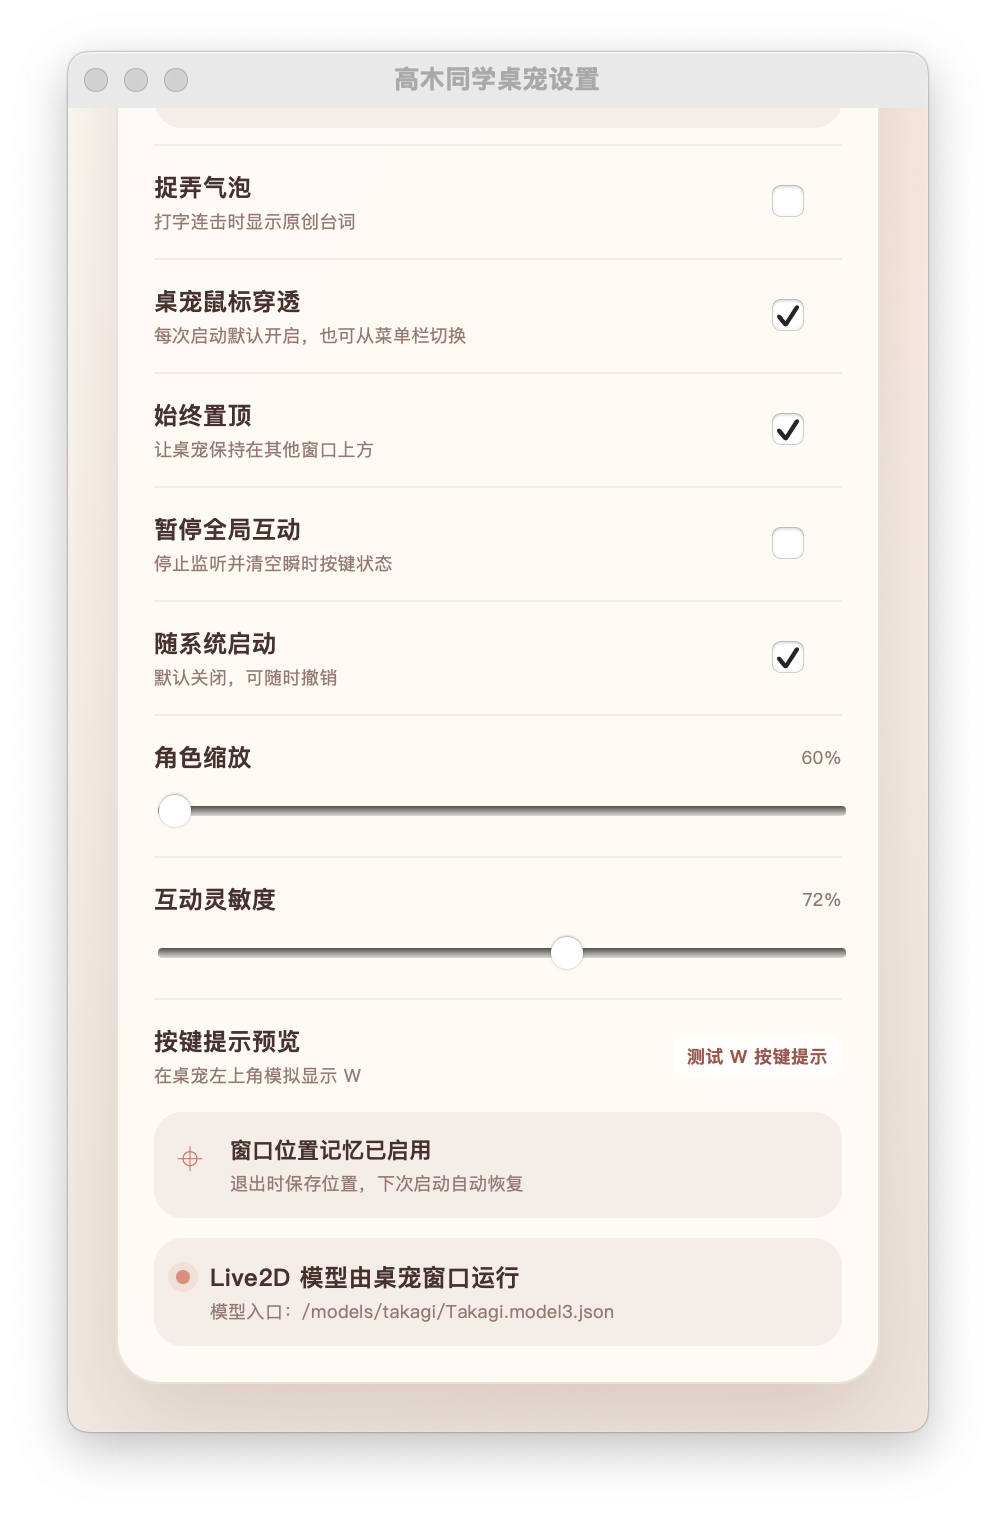
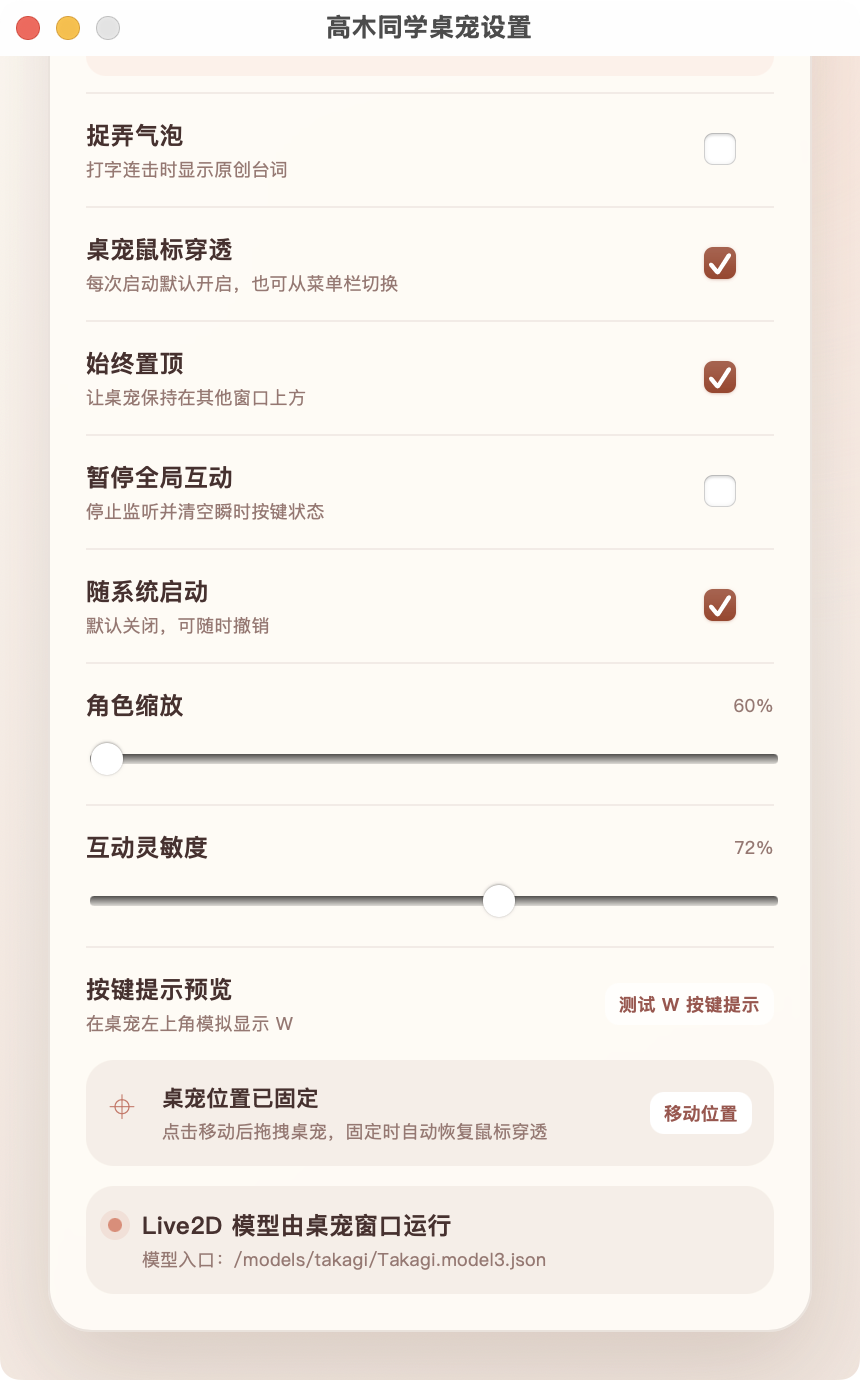
Add position locking and safer defaults

Changed region(s): [[0.0, 0.0, 1.0, 1.0], [0.3628, 0.0, 0.6349, 0.0623], [0.7558, 0.779, 0.8465, 0.8101]]

diff --git a/src/components/SettingsPopover.vue b/src/components/SettingsPopover.vue
@@ -16,6 +16,7 @@ const props = defineProps<{
   listenerState: ListenerState
   modelDiagnostics: ModelDiagnostic[]
   modelStatus: string
+  positionLocked: boolean
   settings: PetSettings
   showInteractionTests: boolean
   showKeyBubblePreview: boolean
@@ -28,6 +29,7 @@ const emit = defineEmits<{
   demoMouse: [action: MouseDemo]
   recheckPermissions: []
   previewKeyBubble: []
+  setPositionLocked: [locked: boolean]
   update: [settings: PetSettings]
 }>()
 
@@ -106,12 +108,16 @@ function patch(current: PetSettings, value: Partial<PetSettings>) {
     <label class="setting-row">
       <span>
         <strong>桌宠鼠标穿透</strong>
-        <small>每次启动默认开启，也可从菜单栏切换</small>
+        <small>
+          {{ positionLocked
+            ? '每次启动默认开启，也可从菜单栏切换'
+            : '移动模式会临时关闭，固定后自动恢复' }}
+        </small>
       </span>
       <input
         type="checkbox"
         :checked="settings.clickThrough"
-        :disabled="!desktopMode"
+        :disabled="!desktopMode || !positionLocked"
         @change="patch(settings, { clickThrough: ($event.target as HTMLInputElement).checked })"
       />
     </label>
@@ -198,12 +204,24 @@ function patch(current: PetSettings, value: Partial<PetSettings>) {
       </button>
     </div>
 
-    <div class="memory-row">
-      <span aria-hidden="true">⌖</span>
+    <div class="memory-row" :class="{ 'is-moving': !positionLocked }">
+      <span aria-hidden="true">{{ positionLocked ? '⌖' : '✥' }}</span>
       <div>
-        <strong>窗口位置记忆已启用</strong>
-        <small>退出时保存位置，下次启动自动恢复</small>
+        <strong>{{ positionLocked ? '桌宠位置已固定' : '正在移动桌宠位置' }}</strong>
+        <small>
+          {{ positionLocked
+            ? '点击移动后拖拽桌宠，固定时自动恢复鼠标穿透'
+            : '拖到任意位置，然后点击右侧按钮固定' }}
+        </small>
       </div>
+      <button
+        class="text-button position-button"
+        type="button"
+        :disabled="!desktopMode"
+        @click="emit('setPositionLocked', !positionLocked)"
+      >
+        {{ positionLocked ? '移动位置' : '固定当前位置' }}
+      </button>
     </div>
 
     <section

diff --git a/src/composables/useDesktopBridge.ts b/src/composables/useDesktopBridge.ts
@@ -32,6 +32,7 @@ export const DESKTOP_COMMANDS = {
   getListenerStatus: 'get_listener_status',
   setInteractionPaused: 'set_interaction_paused',
   setClickThrough: 'set_click_through',
+  setPositionLocked: 'set_position_locked',
   setAlwaysOnTop: 'set_always_on_top',
   setMainWindowVisible: 'set_main_window_visible',
   showMainWindow: 'show_main_window',
@@ -64,6 +65,7 @@ function defaultDesktopState(): DesktopStateSnapshot {
   return {
     interactionPaused: false,
     clickThrough: false,
+    positionLocked: true,
     alwaysOnTop: true,
     visible: true,
     shortcut: defaultShortcutState(),
@@ -424,7 +426,23 @@ export function useDesktopBridge(onDeviceEvent: (event: DeviceEvent) => void) {
     return updateDesktopState(
       DESKTOP_COMMANDS.setClickThrough,
       { enabled },
-      () => ({ ...desktopState.value, clickThrough: enabled }),
+      () => ({
+        ...desktopState.value,
+        clickThrough: enabled,
+        positionLocked: enabled ? true : desktopState.value.positionLocked,
+      }),
+    )
+  }
+
+  async function setPositionLocked(locked: boolean) {
+    return updateDesktopState(
+      DESKTOP_COMMANDS.setPositionLocked,
+      { locked },
+      () => ({
+        ...desktopState.value,
+        positionLocked: locked,
+        clickThrough: locked,
+      }),
     )
   }
 
@@ -603,6 +621,7 @@ export function useDesktopBridge(onDeviceEvent: (event: DeviceEvent) => void) {
     setClickThrough,
     setInteractionPaused,
     setMainWindowVisible,
+    setPositionLocked,
     settingsRevision,
     shortcutState,
     showMainWindow,
@@ -727,6 +746,7 @@ function parseDesktopState(
     !isRecord(payload)
     || typeof payload.interactionPaused !== 'boolean'
     || typeof payload.clickThrough !== 'boolean'
+    || typeof payload.positionLocked !== 'boolean'
     || typeof payload.alwaysOnTop !== 'boolean'
     || typeof payload.visible !== 'boolean'
   ) return undefined
@@ -736,6 +756,7 @@ function parseDesktopState(
   return {
     interactionPaused: payload.interactionPaused,
     clickThrough: payload.clickThrough,
+    positionLocked: payload.positionLocked,
     alwaysOnTop: payload.alwaysOnTop,
     visible: payload.visible,
     shortcut,

diff --git a/src/style.css b/src/style.css
@@ -580,6 +580,46 @@ button {
   pointer-events: none;
 }
 
+.position-drag-surface {
+  position: absolute;
+  inset: 0;
+  z-index: 60;
+  display: grid;
+  gap: 4px;
+  padding: 0;
+  place-content: center;
+  border: 2px dashed rgb(211 114 99 / 62%);
+  border-radius: 22px;
+  background: transparent;
+  color: #70443e;
+  cursor: grab;
+  text-align: center;
+}
+
+.position-drag-surface:active {
+  cursor: grabbing;
+}
+
+.position-drag-surface span,
+.position-drag-surface small {
+  width: max-content;
+  margin: 0 auto;
+  padding: 5px 9px;
+  border-radius: 999px;
+  background: rgb(255 249 242 / 92%);
+  box-shadow: 0 6px 18px rgb(84 43 37 / 14%);
+}
+
+.position-drag-surface span {
+  font-size: 12px;
+  font-weight: 700;
+}
+
+.position-drag-surface small {
+  color: #96716b;
+  font-size: 9px;
+}
+
 .settings-window-shell {
   width: 100%;
   height: 100%;
@@ -807,8 +847,12 @@ input[type='range'] {
 }
 
 .memory-row {
-  grid-template-columns: 18px 1fr;
+  grid-template-columns: 18px minmax(0, 1fr) auto;
   margin: 0 0 10px;
+}
+
+.memory-row.is-moving {
+  background: #ffe7dc;
 }
 
 .memory-row > span {
@@ -819,6 +863,11 @@ input[type='range'] {
 .memory-row strong,
 .section-heading strong {
   font-size: 11px;
+}
+
+.position-button {
+  align-self: center;
+  white-space: nowrap;
 }
 
 .interaction-tests {

diff --git a/src/SettingsWindow.vue b/src/SettingsWindow.vue
@@ -47,6 +47,11 @@ async function updateSettings(next: PetSettings) {
   await bridge.notifySettingsUpdated()
 }
 
+async function setPositionLocked(locked: boolean) {
+  await bridge.setPositionLocked(locked)
+  syncDesktopState()
+}
+
 watch(bridge.desktopState, () => {
   if (desktopReady.value) syncDesktopState()
 }, { deep: true })
@@ -69,6 +74,7 @@ onMounted(async () => {
       model-status="Live2D 模型由桌宠窗口运行"
       :model-diagnostics="[]"
       :listener-state="bridge.listenerState.value"
+      :position-locked="bridge.desktopState.value.positionLocked"
       :shortcut-state="bridge.shortcutState.value"
       :desktop-mode="bridge.isDesktop.value"
       :autostart-available="bridge.autostartAvailable.value"
@@ -78,6 +84,7 @@ onMounted(async () => {
       @update="updateSettings"
       @recheck-permissions="bridge.recheckInputPermissions"
       @preview-key-bubble="bridge.previewKeyBubble"
+      @set-position-locked="setPositionLocked"
     />
   </main>
 </template>

diff --git a/src/App.vue b/src/App.vue
@@ -362,6 +362,17 @@ async function applyPersistedDesktopPreferences() {
       <small>COMBO</small>
     </div>
 
+    <button
+      v-if="!bridge.desktopState.value.positionLocked"
+      class="position-drag-surface"
+      type="button"
+      aria-label="拖动桌宠窗口"
+      @pointerdown.left.prevent="bridge.startDragging"
+    >
+      <span>拖动桌宠到任意位置</span>
+      <small>完成后请在设置窗口中点击“固定当前位置”</small>
+    </button>
+
     <div v-if="bridge.error.value" class="mode-hint">
       {{ bridge.error.value }}
     </div>

diff --git a/src/composables/petSettings.ts b/src/composables/petSettings.ts
@@ -5,11 +5,11 @@ export const SETTINGS_VERSION = 3
 export const TAKAGI_MODEL_PATH = '/models/takagi/Takagi.model3.json'
 
 export const DEFAULT_SETTINGS: Readonly<PetSettings> = Object.freeze({
-  bubbleEnabled: true,
+  bubbleEnabled: false,
   clickThrough: true,
   sensitivity: 72,
   modelPath: TAKAGI_MODEL_PATH,
-  characterScale: 1,
+  characterScale: 0.6,
   alwaysOnTop: true,
   interactionPaused: false,
   autostartEnabled: false,

diff --git a/src/types.ts b/src/types.ts
@@ -174,6 +174,7 @@ export interface ShortcutStatusPayload {
 export interface DesktopStateSnapshot {
   interactionPaused: boolean
   clickThrough: boolean
+  positionLocked: boolean
   alwaysOnTop: boolean
   visible: boolean
   shortcut: ShortcutStatusPayload

diff --git a/src-tauri/src/lib.rs b/src-tauri/src/lib.rs
@@ -89,6 +89,7 @@ impl Default for ShortcutStatusPayload {
 struct DesktopStateSnapshot {
     interaction_paused: bool,
     click_through: bool,
+    position_locked: bool,
     always_on_top: bool,
     visible: bool,
     shortcut: ShortcutStatusPayload,
@@ -153,6 +154,7 @@ struct BackendState {
     permission_revoked_after_start: AtomicBool,
     interaction_paused: AtomicBool,
     click_through: AtomicBool,
+    position_locked: AtomicBool,
     always_on_top: AtomicBool,
     visible: AtomicBool,
     listener_lifecycle: Mutex<()>,
@@ -190,6 +192,7 @@ impl BackendState {
         DesktopStateSnapshot {
             interaction_paused: self.interaction_paused.load(Ordering::Acquire),
             click_through: self.click_through.load(Ordering::Acquire),
+            position_locked: self.position_locked.load(Ordering::Acquire),
             always_on_top: self.always_on_top.load(Ordering::Acquire),
             visible: self.visible.load(Ordering::Acquire),
             shortcut: lock_unpoisoned(&self.shortcut_status).clone(),
@@ -717,6 +720,9 @@ fn set_click_through_internal(
         .set_ignore_cursor_events(enabled)
         .map_err(|_| "无法更新鼠标穿透状态。".to_string())?;
     state.click_through.store(enabled, Ordering::Release);
+    if enabled {
+        state.position_locked.store(true, Ordering::Release);
+    }
     Ok(state.emit_desktop_snapshot(app))
 }
 
@@ -727,6 +733,29 @@ fn set_click_through(
     enabled: bool,
 ) -> Result<DesktopStateSnapshot, String> {
     set_click_through_internal(&app, state.inner(), enabled)
+}
+
+fn set_position_locked_internal(
+    app: &AppHandle,
+    state: &Arc<BackendState>,
+    locked: bool,
+) -> Result<DesktopStateSnapshot, String> {
+    let window = main_window(app)?;
+    window
+        .set_ignore_cursor_events(locked)
+        .map_err(|_| "无法切换桌宠位置移动模式。".to_string())?;
+    state.position_locked.store(locked, Ordering::Release);
+    state.click_through.store(locked, Ordering::Release);
+    Ok(state.emit_desktop_snapshot(app))
+}
+
+#[tauri::command]
+fn set_position_locked(
+    app: AppHandle,
+    state: State<'_, Arc<BackendState>>,
+    locked: bool,
+) -> Result<DesktopStateSnapshot, String> {
+    set_position_locked_internal(&app, state.inner(), locked)
 }
 
 #[tauri::command]
@@ -1062,6 +1091,7 @@ pub fn run() {
             get_listener_status,
             set_interaction_paused,
             set_click_through,
+            set_position_locked,
             set_always_on_top,
             set_main_window_visible,
             show_main_window,
@@ -1078,6 +1108,7 @@ pub fn run() {
                 let state = app.state::<Arc<BackendState>>();
                 if window.set_ignore_cursor_events(true).is_ok() {
                     state.click_through.store(true, Ordering::Release);
+                    state.position_locked.store(true, Ordering::Release);
                 } else {
                     emit_desktop_error(
                         app.handle(),

diff --git a/README.md b/README.md
@@ -23,11 +23,13 @@
 ## 主要功能
 
 - 透明、置顶并默认鼠标穿透，不会挡住桌面点击。
+- 可从设置窗口进入移动模式，将桌宠拖到任意位置后固定；位置会自动保存。
 - 眼睛跟随鼠标位置，角色会自动眨眼。
 - 键盘手会移动到画面上对应的真实键位。
 - 鼠标、手套和完整鼠标手臂作为一个整体移动。
 - 左上角气泡会短暂显示刚按下的按键。
 - 支持缩放、互动灵敏度、始终置顶、暂停互动和开机启动设置。
+- 首次启动默认关闭原创捉弄台词，角色缩放为 60%。
 
 ## 下载
 
@@ -43,6 +45,7 @@
 3. 在“系统设置 → 隐私与安全性”中允许“辅助功能”和“输入监控”。
 4. 完全退出后重新启动桌宠。
 5. 从菜单栏图标打开设置、暂停互动、切换鼠标穿透或退出。
+6. 需要调整位置时，在设置中点击“移动位置”，拖动桌宠后点击“固定当前位置”。
 
 找不到桌宠或需要切换鼠标穿透时，按 `Command + Shift + T`。
 
@@ -51,6 +54,7 @@
 1. 运行名称以 `_x64-setup.exe` 结尾的安装程序。
 2. 如 SmartScreen 显示提醒，请先确认文件来自本仓库的正式 Release。
 3. 启动后从系统托盘图标打开设置、暂停互动或退出。
+4. 需要调整位置时，在设置中点击“移动位置”，拖动桌宠后点击“固定当前位置”。
 
 找不到桌宠或需要切换鼠标穿透时，按 `Ctrl + Shift + T`。
 
